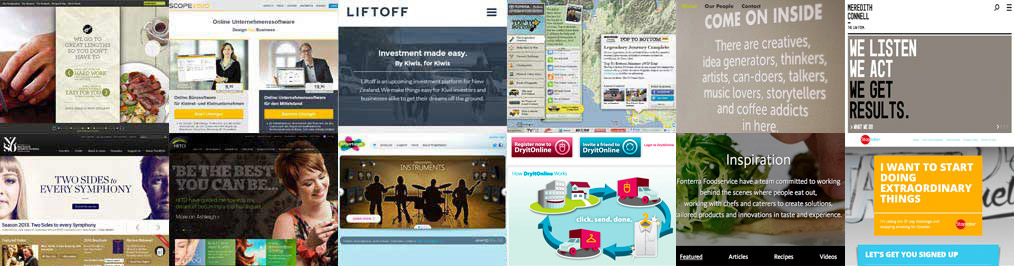
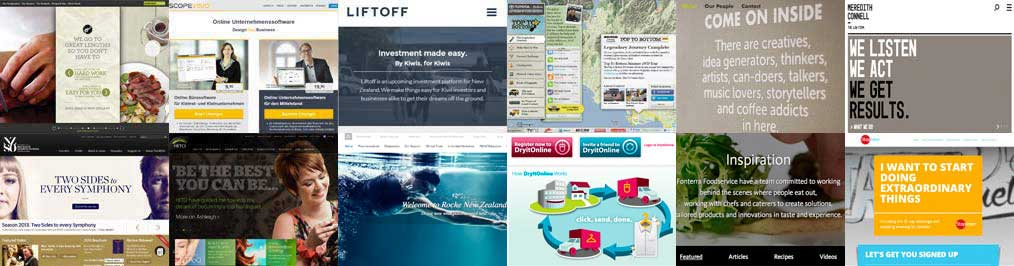
Add spitfire info, adjustments and such

diff --git a/css/style.css b/css/style.css
@@ -92,7 +92,7 @@ noscript {
 
 .hgroup {
   float: left;
-  padding: 10px 0 0 6px; }
+  padding: 10px 0 0; }
 
 .heading {
   font-size: 18px; }
@@ -122,8 +122,8 @@ footer {
   opacity: 0.95;
   z-index: 99;
   border-bottom: 1px solid #EEE7D5; }
-  .header h2 {
-    padding-left: 5px; }
+  .header .inner {
+    width: 850px; }
 
 .home {
   background: #d9d9d7 url(../images/fern-leaf.jpg) no-repeat 0 100%;
@@ -135,7 +135,7 @@ footer {
 .home-left {
   width: 47%;
   float: left;
-  padding-left: 13px; }
+  padding-left: 36px; }
 
 .home-right {
   width: 48%;
@@ -385,23 +385,19 @@ footer {
   background: linear-gradient(135deg, #75cdf5, #fff);
   border-bottom-width: 2px;
   border-top-width: 2px; }
-
-.about .inner {
-  z-index: 99; }
-
-.about h3 {
-  padding: 10px 0; }
-
-.about p {
-  width: 88%;
-  float: left; }
-
-.about p.about-title {
-  font-weight: bold;
-  font-style: italic; }
-
-.about .open p {
-  visibility: visible; }
+  .about .inner {
+    z-index: 99;
+    width: 844px; }
+  .about h3 {
+    padding: 10px 0; }
+  .about p {
+    width: 88%;
+    float: left; }
+    .about p.about-title {
+      font-weight: bold;
+      font-style: italic; }
+  .about .open p {
+    visibility: visible; }
 
 .about-bg {
   width: 100%;
@@ -545,7 +541,7 @@ footer {
         background-position: 0 -133px; }
       .work ul li.hito .img {
         background-position: -169px -133px; }
-      .work ul li.fingertapps .img {
+      .work ul li.roche .img {
         background-position: -338px -133px; }
       .work ul li.dryitonline .img {
         background-position: -507px -133px; }
@@ -583,42 +579,42 @@ footer {
   &.site4, &.site8, &.site12{
   	background-position:center -1498px;
   }*/ }
+  #sitebg.roche-bg {
+    background-image: url(../images/websites2y515.jpg);
+    background-position: left -1030px; }
   #sitebg.ffs-bg {
     background-image: url(../images/websites3y515.jpg);
-    background-position: center -468px; }
+    background-position: left -515px; }
   #sitebg.stoptober-bg {
     background-image: url(../images/websites3y515.jpg);
-    background-position: center -1498px; }
+    background-position: center -1545px; }
   #sitebg.mc-bg {
     background-image: url(../images/websites3y515.jpg);
-    background-position: center -983px; }
+    background-position: center -1030px; }
   #sitebg.coats-bg {
     background-image: url(../images/websites3y515.jpg);
-    background-position: center 47px; }
+    background-position: left 0; }
   #sitebg.liftoff-bg {
     background-image: url(../images/websites1y515.jpg);
-    background-position: center -983px; }
+    background-position: center -1030px; }
   #sitebg.sff-bg {
     background-image: url(../images/websites1y515.jpg);
-    background-position: center 47px; }
+    background-position: center 0; }
   #sitebg.scopevisio-bg {
     background-image: url(../images/websites1y515.jpg);
-    background-position: center -468px; }
+    background-position: left -515px; }
   #sitebg.nzso-bg {
     background-image: url(../images/websites2y515.jpg);
-    background-position: center 47px; }
+    background-position: left 0; }
   #sitebg.toptobottom-bg {
     background-image: url(../images/websites1y515.jpg);
-    background-position: center -1498px; }
+    background-position: center -1545px; }
   #sitebg.hito-bg {
     background-image: url(../images/websites2y515.jpg);
-    background-position: center -468px; }
-  #sitebg.fingertapps-bg {
-    background-image: url(../images/websites2y515.jpg);
-    background-position: center -983px; }
+    background-position: center -515px; }
   #sitebg.dryitonline-bg {
     background-image: url(../images/websites2y515.jpg);
-    background-position: center -1498px; }
+    background-position: left -1545px; }
 
 .contact .inner {
   padding: 10px 0 20px; }
@@ -703,7 +699,7 @@ footer {
   z-index: 98; }
 
 .nav-wrapper {
-  width: 48%;
+  width: 34%;
   float: right;
   text-align: center; }
   .nav-wrapper nav {

diff --git a/scss/work.scss b/scss/work.scss
@@ -150,7 +150,7 @@
 			&.hito .img{
 				background-position:-169px -133px;
 			}
-			&.fingertapps .img{
+			&.roche .img{
 				background-position:-338px -133px;
 			}
 			&.dryitonline .img{
@@ -178,53 +178,53 @@
 	opacity:0.07;
 	z-index:94;
 	display:block;
+	&.roche-bg{
+		background-image:url(../images/websites2y515.jpg);
+		background-position: left -1030px;
+	}
 	&.ffs-bg{
 		background-image:url(../images/websites3y515.jpg);
-		background-position: center -468px;
+		background-position: left -515px;
 	}
 	&.stoptober-bg{
 		background-image:url(../images/websites3y515.jpg);
-		background-position: center -1498px;
+		background-position: center -1545px;
 	}
 	&.mc-bg{
 		background-image:url(../images/websites3y515.jpg);
-		background-position: center -983px;
+		background-position: center -1030px;
 	}
 	&.coats-bg{
 		background-image:url(../images/websites3y515.jpg);
-		background-position: center 47px;
+		background-position: left 0;
 	}
 	&.liftoff-bg{
 		background-image:url(../images/websites1y515.jpg);
-		background-position: center -983px;
+		background-position: center -1030px;
 	}
 	&.sff-bg{
 		background-image:url(../images/websites1y515.jpg);
-		background-position: center 47px;
+		background-position: center 0;
 	}
 	&.scopevisio-bg{
 		background-image:url(../images/websites1y515.jpg);
-		background-position: center -468px;
+		background-position: left -515px;
 	}
 	&.nzso-bg{
 		background-image:url(../images/websites2y515.jpg);
-		background-position: center 47px;
+		background-position: left 0;
 	}
 	&.toptobottom-bg{
 		background-image:url(../images/websites1y515.jpg);
-		background-position: center -1498px;
+		background-position: center -1545px;
 	}
 	&.hito-bg{
 		background-image:url(../images/websites2y515.jpg);
-		background-position: center -468px;
-	}
-	&.fingertapps-bg{
-		background-image:url(../images/websites2y515.jpg);
-		background-position: center -983px;
+		background-position: center -515px;
 	}
 	&.dryitonline-bg{
 		background-image:url(../images/websites2y515.jpg);
-		background-position: center -1498px;
+		background-position: left -1545px;
 	}
 	/*&.site, &.site, &.site, &.site{
 		background-image:url(../images/websites2y515.jpg);

diff --git a/js/custom.js b/js/custom.js
@@ -13,9 +13,10 @@ var fbAddress = '<a href="//www.facebook.com/thornberrypie" target="_blank">face
 var acronyms = ['PHP','HTML','CSS','SQL','CMS','XML','LAMP','SEO','JS','MVC','JSON','LESS','AJAX','REST','CDN','OOP','URL','CURL','GUI','WYSIWYG','SOAP','AGILE','GUI','SASS','YAML','WWW','PSD','CLI','PDF','DNS','HTTP','API','RSS','MAMP'];
 $(document).ready(function(){
 //Preload images for "work" section
-	var thumbs = new Image(); thumbs.src = '/images/thumbs-169x133-2015.jpg';
+	var thumbs = new Image(); thumbs.src = '/images/thumbs-169x133.jpg';
 	var sites1 = new Image(); sites1.src = '/images/websites1y515.jpg';
 	var sites2 = new Image(); sites2.src = '/images/websites2y515.jpg';
+	var sites3 = new Image(); sites3.src = '/images/websites3y515.jpg';
 //Set up acronyms for home section
 	setUpPage();
 //Set up navigation slider

diff --git a/scss/about.scss b/scss/about.scss
@@ -3,23 +3,26 @@
 	background:linear-gradient(135deg, #75cdf5, #fff);
 	border-bottom-width:2px;
 	border-top-width:2px;
-}
-.about .inner{
-	z-index:99;
-}
-.about h3{
-	padding: 10px 0;
-}
-.about p{
-	width:88%;
-	float:left;
-}
-.about p.about-title{
-	font-weight:bold;
-	font-style:italic;
-}
-.about .open p{
-	visibility:visible;
+	.inner{
+		z-index:99;
+		width: $content-width;
+	}
+	h3{
+		padding: 10px 0;
+	}
+	p{
+		width:88%;
+		float:left;
+		&.about-title{
+			font-weight:bold;
+			font-style:italic;
+		}
+	}
+	.open{
+		p{
+			visibility:visible;
+		}
+	}
 }
 .about-bg{
 	width:100%;

diff --git a/scss/main.scss b/scss/main.scss
@@ -6,7 +6,7 @@
 }
 .hgroup{
 	float:left;
-	padding:10px 0 0 6px;
+	padding:10px 0 0;
 }
 .heading{
 	font-size:18px;
@@ -37,8 +37,8 @@ footer{
 	opacity:0.95;
 	z-index:99;
 	border-bottom: 1px solid $peach;
-	h2{
-		padding-left: 5px;
+	.inner{
+		width: $content-width+6;
 	}
 }
 .home{
@@ -51,7 +51,7 @@ footer{
 .home-left{
 	width:47%;
 	float:left;
-	padding-left:13px;
+	padding-left:36px;
 }
 .home-right{
 	width:48%;

diff --git a/scss/vars.scss b/scss/vars.scss
@@ -9,4 +9,6 @@ $peach: #EEE7D5;
 $aqua: #81c7e3;
 $grey: #cdcdcd;
 $nav-link-hover: #737372;
+$hero-height: 515px;
+$content-width: 844px;
 $site-thumbs: url(../images/thumbs-169x133.jpg);

diff --git a/scss/nav.scss b/scss/nav.scss
@@ -1,5 +1,5 @@
 .nav-wrapper{
-	width:48%;
+	width:34%;
 	float: right;
 	text-align: center;
 	nav{

diff --git a/index.php b/index.php
@@ -48,7 +48,7 @@
 				<li class="site1 roche">
 					<div class="box">
 						<p>Roche<br /><sup>Concrete5</sup><br /><sup>SASS / jQuery</sup></p><span class="layer"></span><span class="img"></span><span class="button"></span><span class="bg1"></span><span class="bg2"></span>
-						<div class="info"><strong><a class="siteTitle" href="//www.roche.co.nz" target="_blank" title="Visit Website">www.roche.co.nz</a></strong> - content here...<a href="//www.cancerinfo.co.nz" target="_blank">cancerinfo.co.nz</a> <a href="//www.roche-plus.co.nz" target="_blank">roche-plus.co.nz</a></div>
+						<div class="info"><strong><a class="siteTitle" href="//www.roche.co.nz" target="_blank" title="Visit Website">www.roche.co.nz</a></strong> - From the dawn of 2016 I've been working with one of Auckland's top Digital Agencies: <a target="_blank" href="//www.spitfire.co.nz">Spitfire</a> to deliver a suite of sites for Swiss pharmaceuticals: <a href="//www.roche.co.nz" target="_blank">roche.co.nz</a>, <a href="//www.cancerinfo.co.nz" target="_blank">cancerinfo.co.nz</a> and <a href="//www.roche-plus.co.nz" target="_blank">roche-plus.co.nz</a>. These sites were crafted in PHP CMS Concrete5 with custom-made modules and templates. During my time at <a target="_blank" href="//www.spitfire.co.nz">Spitfire</a> I've also had the opportunity to do extensive work on one of New Zealand's most popular recipe websites: <a target="_blank" href="//www.chelsea.co.nz">Chelsea Sugar NZ</a> and their Aussie affiliates <a target="_blank" href="//www.csrsugar.com.au">CSR Sugar Australia</a>.</div>
 					</div>
 				</li>
 				<li class="site2 ffs">
